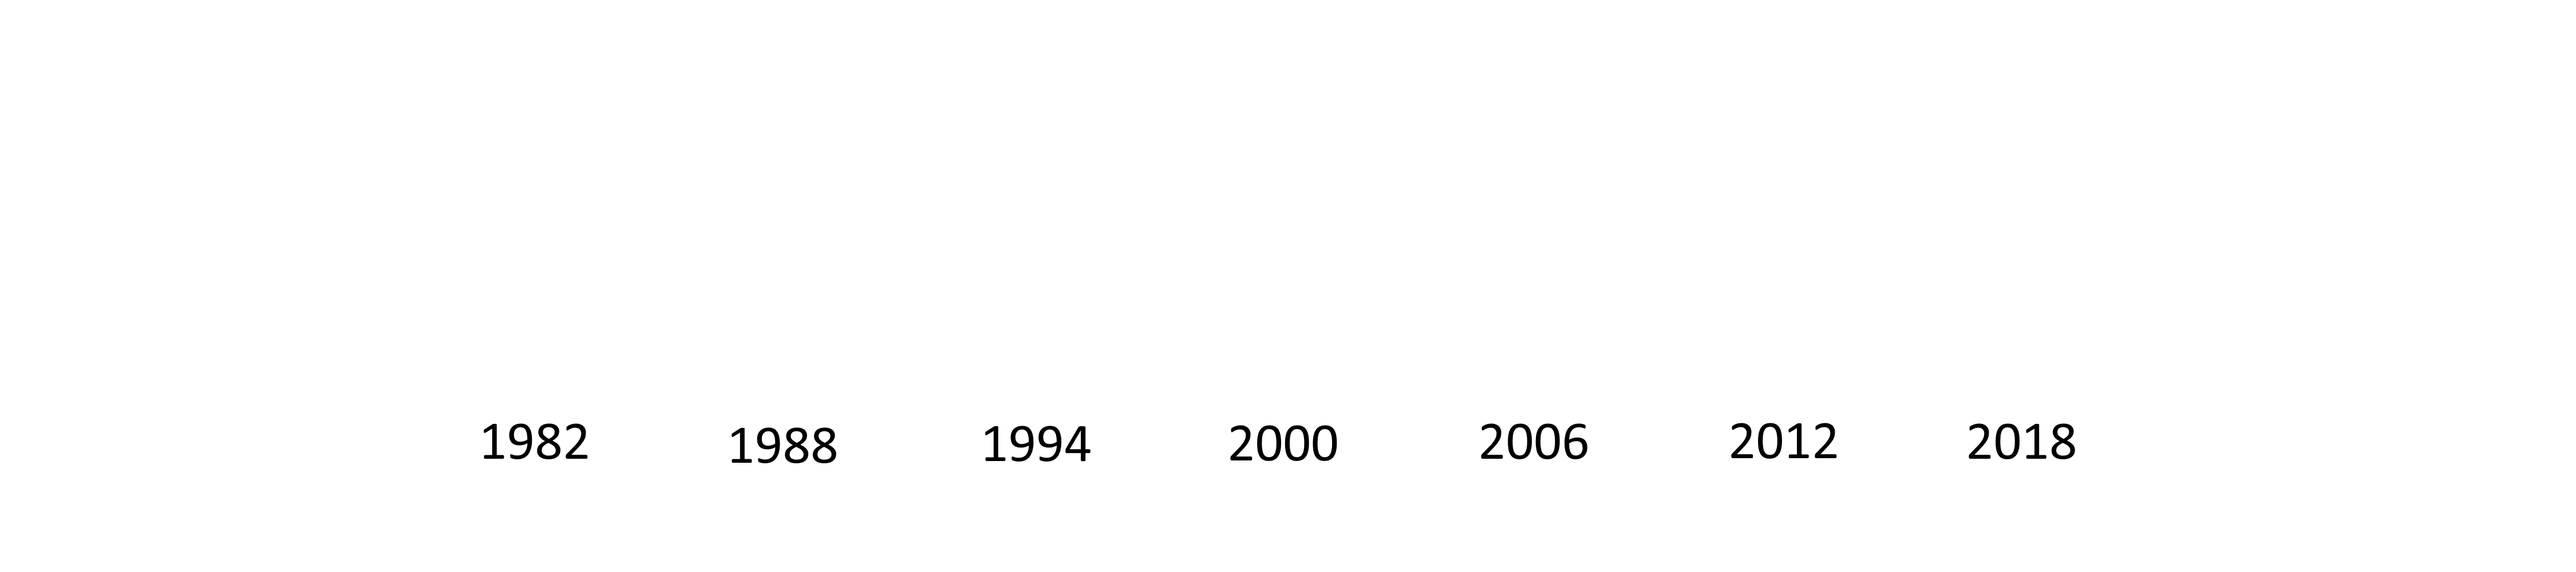
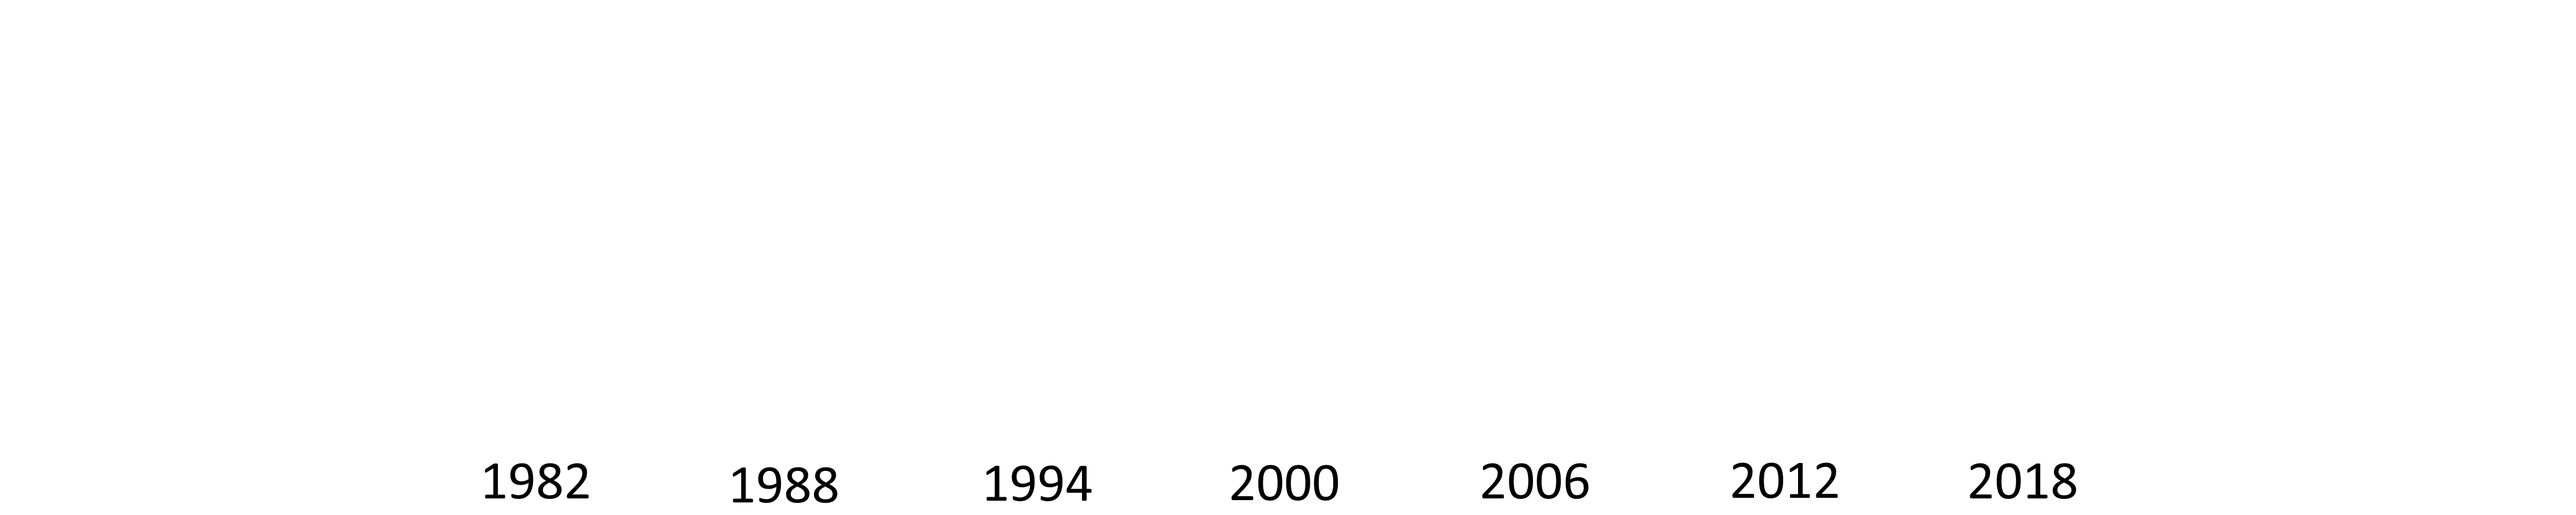
added timeline example

diff --git a/presentations/timeline/index.html b/presentations/timeline/index.html
@@ -101,7 +101,7 @@
 				transition: 'fade', // none/fade/slide/convex/concave/zoom
 				transitionSpeed: 'slow',
 				backgroundTransition: 'fade',
-				parallaxBackgroundSize: '4500px 1000px',
+				parallaxBackgroundSize: '4500px 900px',
 				parallaxBackgroundImage: 'img/timeline.png',
 				parallaxBackgroundHorizontal: '5px',
 
